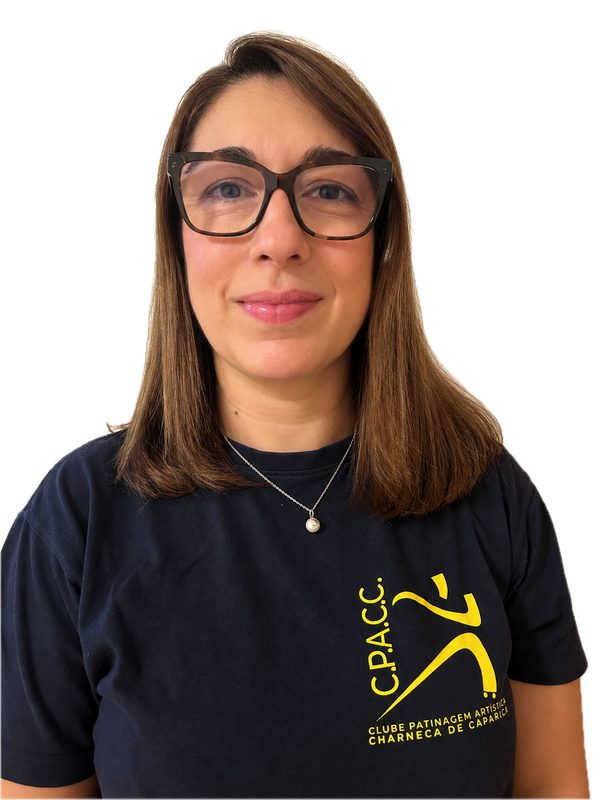
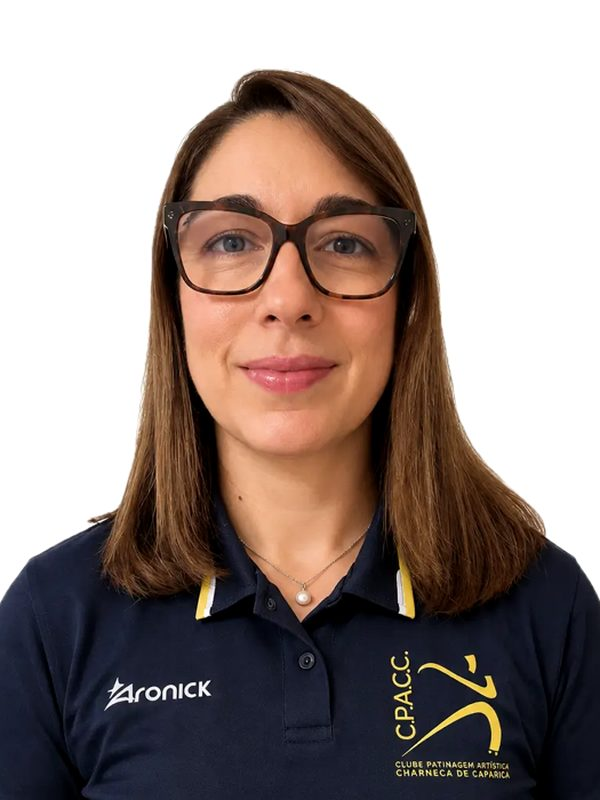
Retrato novo da Cátia, com o polo do clube
Ao contrário dos outros três, o logótipo saiu bem escrito nesta.

diff --git a/clube.html b/clube.html
@@ -164,7 +164,7 @@
 
     <div class="figure-aside">
       <div class="figure-aside__foto" data-reveal="mask">
-        <img src="assets/img/equipa/catia-mendonca.jpg" alt="Cátia Mendonça"
+        <img src="assets/img/equipa/catia-mendonca.jpg?v=2" alt="Cátia Mendonça"
              width="600" height="800" loading="lazy" decoding="async">
       </div>
       <div class="figure-aside__texto" data-reveal style="--reveal-delay:120ms">

diff --git a/tools/preparar-fotos.py b/tools/preparar-fotos.py
@@ -46,6 +46,7 @@ ROSTOS = {
     "francisco-quintela": (615, 1680, 3150),
     "catarina-branco":   (31,   500,  969),
     "madalena-bonito":   (62,   445,  280),
+    "catia-mendonca":    (98,   378,  288),
 }
 
 ALTURA_CABECA = 0.40                # a cabeça ocupa 40% da altura do retrato

diff --git a/CLAUDE.md b/CLAUDE.md
@@ -214,7 +214,7 @@ Por fazer:
   em todos ("CLUB PATTINAGE ARTISTIQUE / CHARENCE DE CAPARNCA" e variantes) e o
   Francisco decidiu publicá-los assim a 2026-09-20, sabendo disso. A 15 px de
   altura na grelha não se lê, mas na página do Clube lê-se de perto: trocar por
-  fotografia verdadeira quando houver. A Cátia está com a t-shirt do clube.
+  fotografia verdadeira quando houver. A Cátia também tem retrato gerado, mas o logótipo dela saiu correto.
 - **Inês Pelica** tem uma biografia de uma linha. Falta percurso.
 - **Foto histórica** - placeholder no topo do `clube.html`.
 - **Vídeo do hero** - o `<video>` está comentado no `index.html` e no lugar dele
